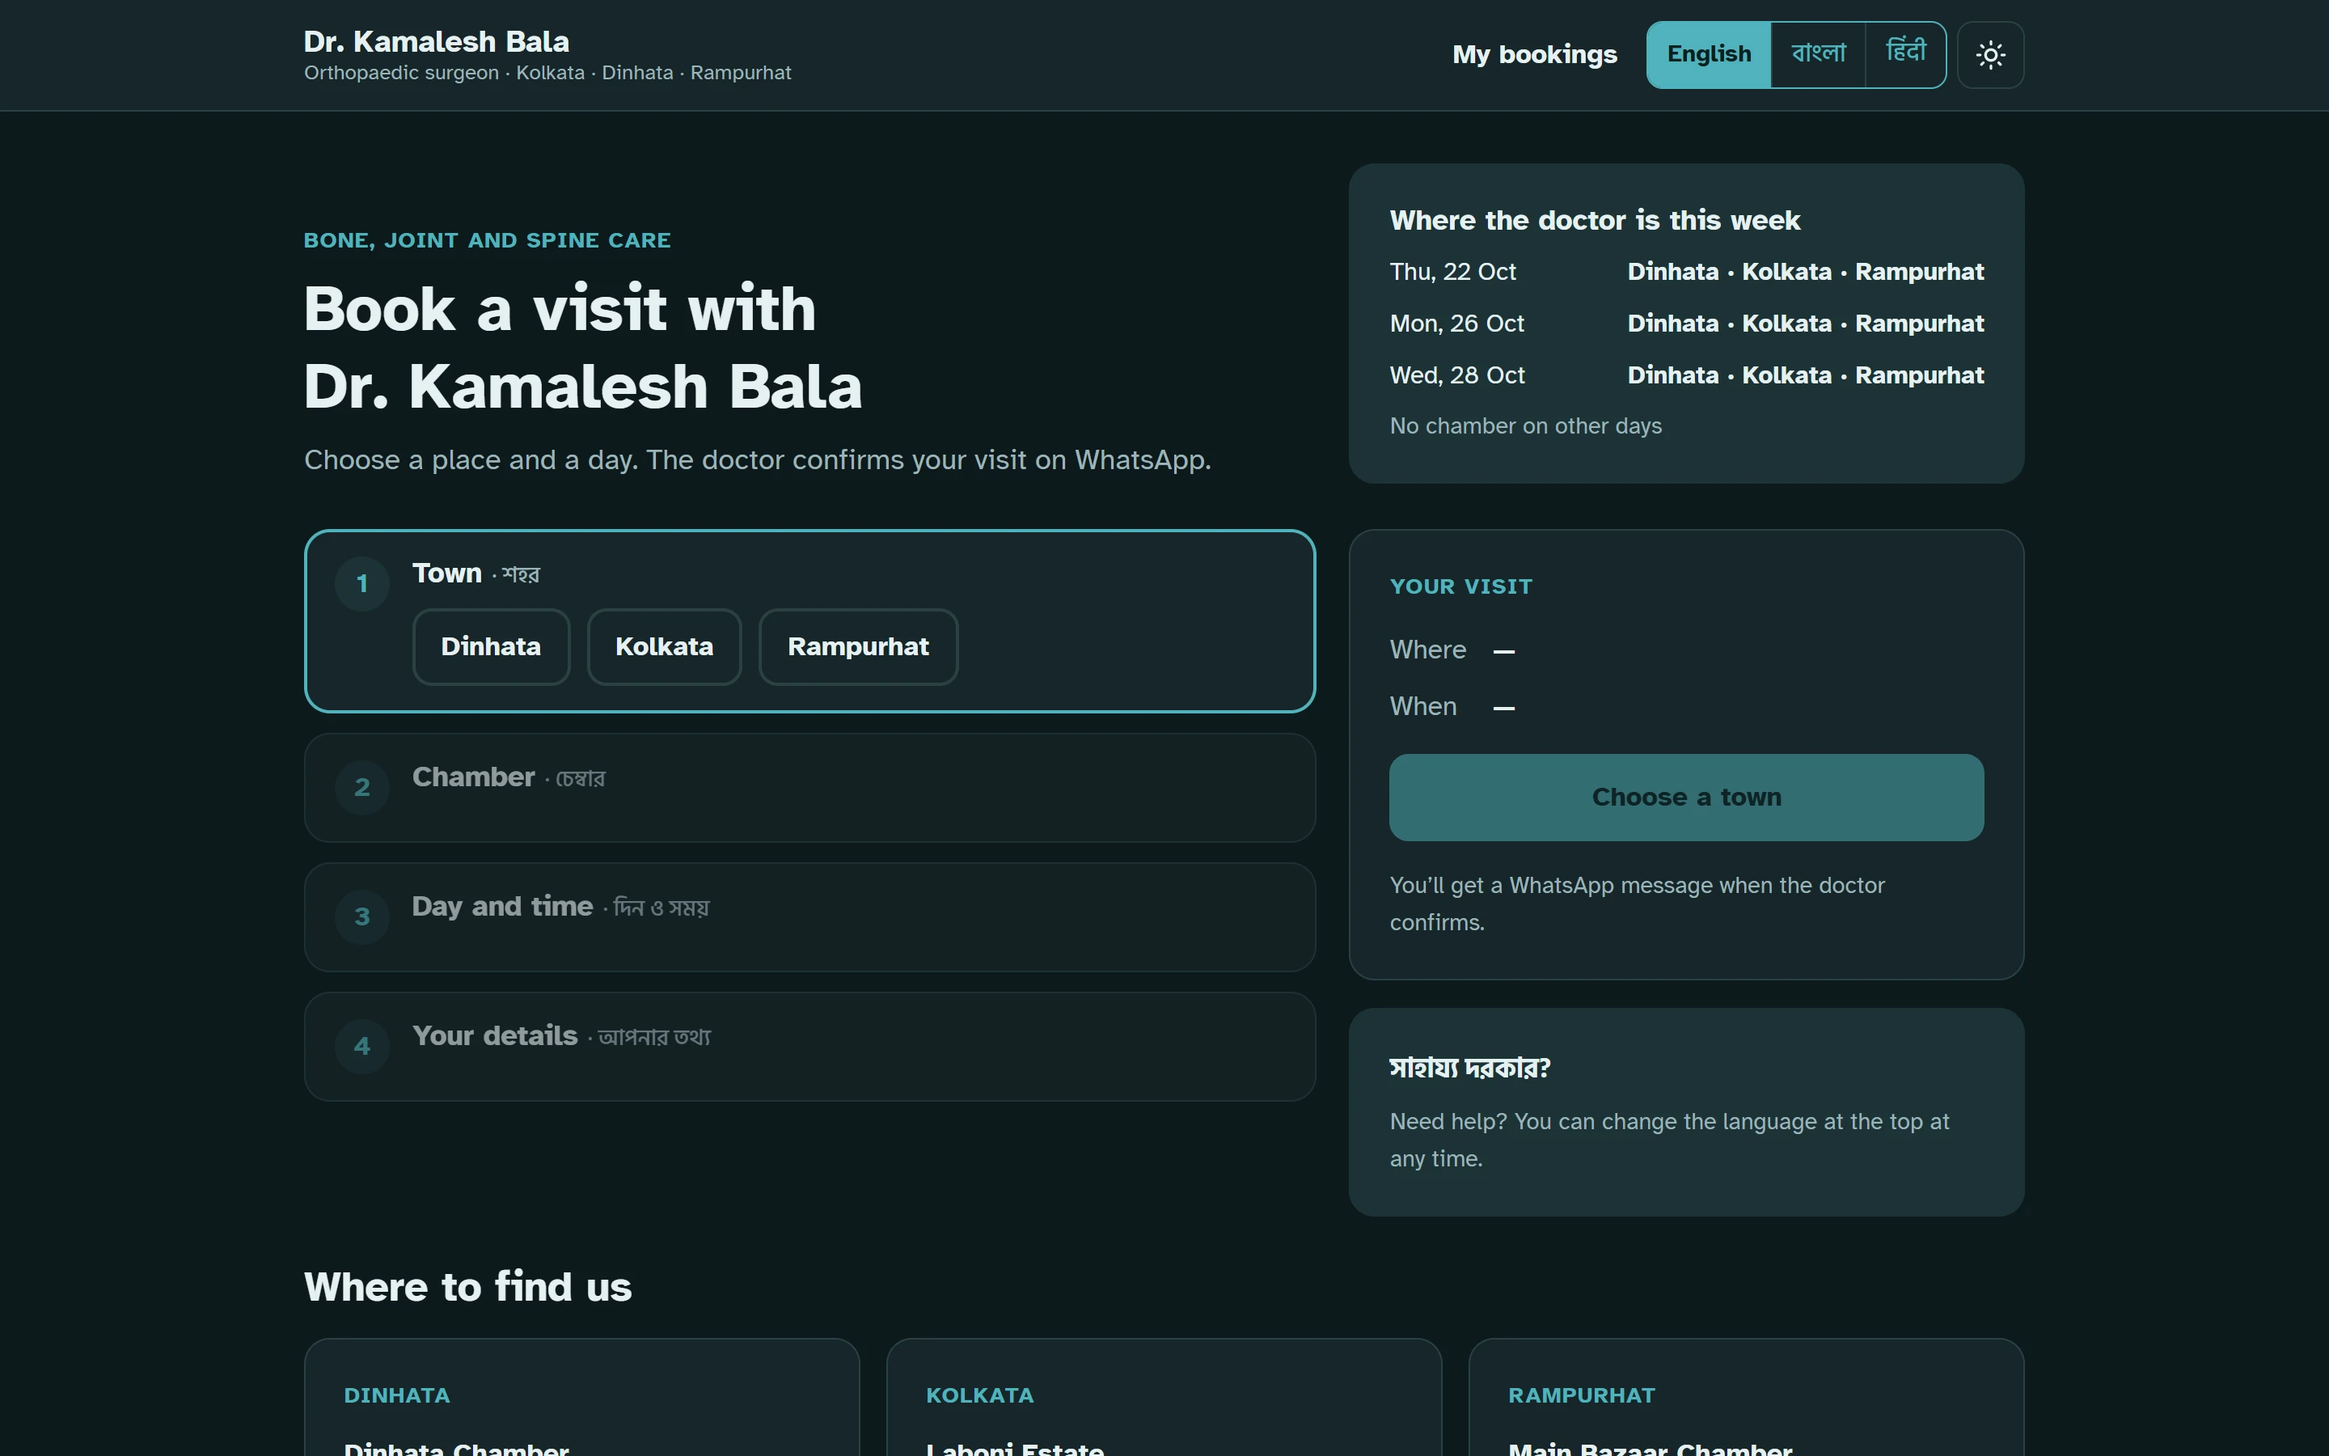
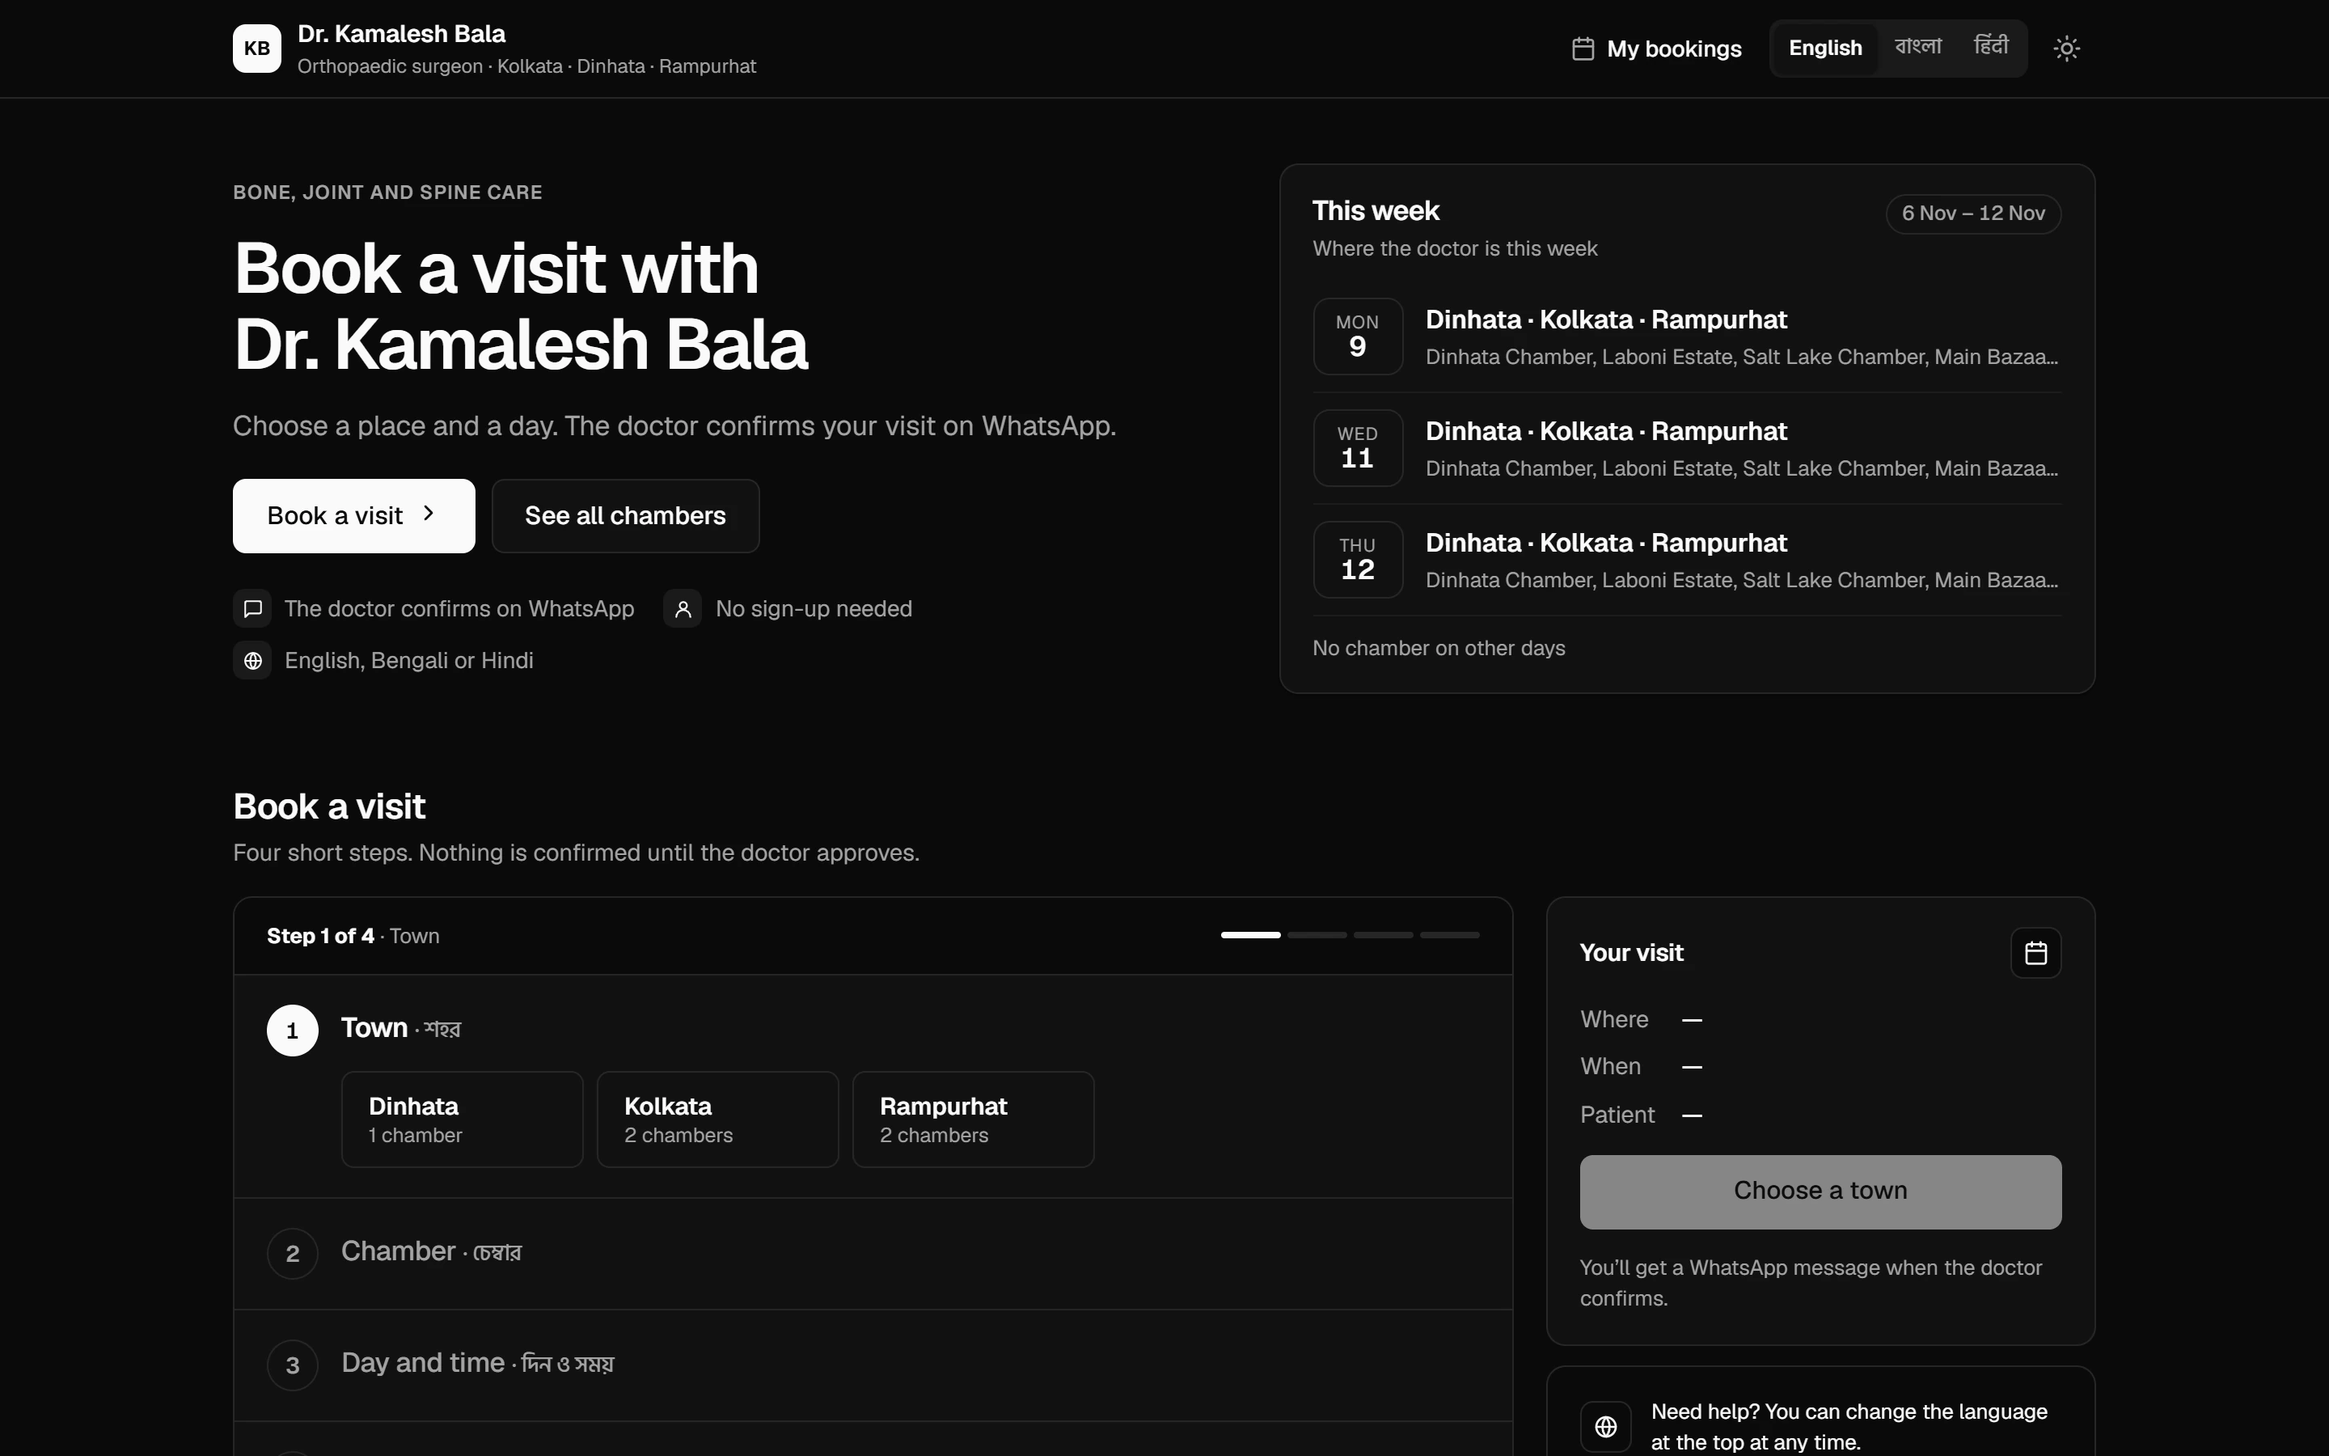
Retake the clinic's captures after its redesign
Every KB Patient Booking capture is the live site as of November 5 2026,
signed out: the slider and case-study heroes, the four Index frames, and
the case study's booking form and doctor's page, now 2x. The admin
panel's header is gone from the public site (its page is a sign-in card),
so the engineering plate is the patient sign-in strip the section's last
sentence describes. Captions describe only what each frame shows; the
body copy's stack is left for TODO.

diff --git a/lib/content.ts b/lib/content.ts
@@ -617,45 +617,45 @@ export const content: SiteContent = {
         src: "/media/kb-clinic-hero.webp",
         width: 2880,
         height: 1800,
-        alt: "The clinic's booking page in its dark theme: “Book a visit with Dr. Kamalesh Bala”, four steps — town, chamber, day and time, your details — with the first open on Dinhata, Kolkata and Rampurhat, the doctor's chamber days this week, and an empty visit summary.",
+        alt: "The clinic's booking page in its dark theme: “Book a visit with Dr. Kamalesh Bala”, buttons to book or to see all chambers, the doctor's three chamber days this week beside it, and the first of four booking steps open on Dinhata, Kolkata and Rampurhat, with an empty visit summary.",
       },
       heroMobile: {
         src: "/media/kb-clinic-mobile.webp",
         width: 1170,
         height: 2532,
-        alt: "The clinic's booking page on a phone: the doctor's name and speciality, English, Bengali and Hindi switches, this week's chamber days, and the first step, choosing a town.",
+        alt: "The clinic's booking page on a phone: the doctor's name, English, Bengali and Hindi switches, the headline, Book a visit and See all chambers, and this week's three chamber days.",
       },
-      // Taken from the live site on 2026-10-21, signed out. The booking was
-      // walked as far as a day and time and no further: the details step
-      // asks for a patient's own, and nothing was submitted.
+      // Taken from the live site on 2026-11-05, after its redesign, signed
+      // out. The booking was walked to the details step and no further:
+      // nothing was typed and nothing was sent.
       captures: [
         {
           src: "/media/kb-clinic-live-chamber.webp",
           width: 2880,
           height: 1800,
           label: "Chamber",
-          alt: "The second step, after choosing Kolkata: two chambers, Laboni Estate and Salt Lake, each with its address.",
+          alt: "The second step, after choosing Kolkata: two chambers, Laboni Estate and Salt Lake, each with its address and the days it is open this week, and the visit summary filling in beside them.",
         },
         {
           src: "/media/kb-clinic-live-day.webp",
           width: 2880,
           height: 1800,
           label: "Day and time",
-          alt: "The third step at the Salt Lake chamber: the days ahead, those without a chamber marked closed, and half-hourly times from 10:00 am to 5:30 pm, with the visit summary filled in beside it.",
+          alt: "The third step at the Salt Lake chamber: the days ahead, those without a chamber marked closed, Monday chosen, and half-hourly times from 10:00 am to 5:30 pm in morning, afternoon and evening rows, with the visit summary beside it.",
         },
         {
           src: "/media/kb-clinic-live-chambers.webp",
           width: 2880,
           height: 1800,
           label: "Five chambers",
-          alt: "Where to find us: five chambers across Dinhata, Kolkata and Rampurhat, each with its address, the days it is open this week and a button to book there, then the three steps of a booking and a sign-in for patients who have booked before.",
+          alt: "Where to find us: five chambers across Dinhata, Kolkata and Rampurhat, each with its address, the days it is open this week and a button to book there, then how booking works in three steps: choose a day, tell us who you are, wait for the doctor.",
         },
         {
           src: "/media/kb-clinic-live-bangla.webp",
           width: 2880,
           height: 1800,
           label: "In Bengali",
-          alt: "The booking page in Bengali: the headline, the steps, the visit summary and the help card translated, the town names left in English.",
+          alt: "The booking page in Bengali: the headline, the week, the steps, the visit summary and the help card translated, the town and chamber names left in English.",
         },
       ],
       caseStudy: {
@@ -677,26 +677,27 @@ export const content: SiteContent = {
             body: [
               "Three surfaces over one set of records. Patients book and review their history and prescriptions; the doctor's dashboard lists a chosen day's appointments with each patient's details; the admin panel holds every patient and booking, with a CSV export for backup.",
             ],
-            // Public, signed-out pages only. The form is cropped to its fields:
-            // the account panel beside it states the password format.
+            // Public, signed-out pages only. The form is cropped to its
+            // fields, all empty; the doctor's page to its description, past
+            // the sign-in form.
             media: {
               kind: "pair",
               title: "The patient's form, the doctor's day",
-              body: "A patient books in one form: a phone number, which becomes the account, an optional email, name, age and sex, and weight and height in whichever units they think in. The doctor signs in to a workspace built around the day: the pending queue, availability, and prescriptions to upload.",
+              body: "A patient books in one form: name, age and sex, a WhatsApp number, which becomes the account, an optional reason for the visit, and an optional email, height and weight. The doctor signs in to bookings, schedule and prescriptions in one place: every booking for the day, a visit to confirm or decline, prescriptions in English, Bengali or Hindi, and the days and hours patients can book.",
               images: [
                 {
                   src: "/media/kb-clinic-booking.webp",
-                  width: 832,
-                  height: 1015,
+                  width: 1456,
+                  height: 1088,
                   label: "Booking",
-                  alt: "The booking form's fields on a warm grey ground: phone number with a +91 prefix, optional email, full name, age and sex, and optional weight and height, each with a switch to pounds or to feet and inches.",
+                  alt: "The booking form's fields, all empty, on the dark theme: full name, age, sex as Male, Female or Other, a WhatsApp number with a +91 prefix, an optional reason for the visit, and optional email, height in centimetres and weight in kilograms.",
                 },
                 {
                   src: "/media/kb-clinic-doctor.webp",
-                  width: 966,
-                  height: 653,
+                  width: 1008,
+                  height: 920,
                   label: "The doctor's day",
-                  alt: "A Daily Schedule card: review today's queue, move appointments forward and jump into patient details, over three rows — Pending Appointments, Availability Manager, Upload Prescription.",
+                  alt: "The doctor's sign-in page: bookings, schedule and prescriptions in one place. See every booking for the day, confirm or decline visits, write prescriptions in English, Bengali or Hindi, and set the days and hours patients can book; then two cards, today's bookings and those waiting.",
                 },
               ],
             },
@@ -708,12 +709,12 @@ export const content: SiteContent = {
             ],
             media: {
               kind: "image",
-              src: "/media/kb-clinic-admin.webp",
-              width: 1714,
-              height: 555,
-              alt: "The admin panel's header: Admin Panel set in a serif, Central view for patient records and booking operations, three tags — patient records, booking operations, data exports — an overview card listing the same three, and a link bar back to booking and on to the doctor dashboard.",
+              src: "/media/kb-clinic-signin.webp",
+              width: 2308,
+              height: 420,
+              alt: "Already booked? A sign-in strip under the booking page: sign in to see your visits and prescriptions, a phone number with a +91 prefix and a password, both empty, the note “Use the phone number you booked with”, and a Sign in button.",
               caption:
-                "The third surface: patient records, booking operations and data exports behind one sign-in, a link away from the booking page and the doctor's dashboard.",
+                "A returning patient signs in with the phone number they booked with, to see their visits and prescriptions.",
             },
           },
           {

diff --git a/lib/blur.ts b/lib/blur.ts
@@ -22,7 +22,6 @@ export type BlurredMedia =
   | "/media/fens-oct-25.webp"
   | "/media/fens-oct-26-leaves.webp"
   | "/media/fens-oct-26-water.webp"
-  | "/media/kb-clinic-admin.webp"
   | "/media/kb-clinic-booking.webp"
   | "/media/kb-clinic-doctor.webp"
   | "/media/kb-clinic-hero.webp"
@@ -31,6 +30,7 @@ export type BlurredMedia =
   | "/media/kb-clinic-live-chambers.webp"
   | "/media/kb-clinic-live-day.webp"
   | "/media/kb-clinic-mobile.webp"
+  | "/media/kb-clinic-signin.webp"
   | "/media/lagna-atelier-android-birth-details.webp"
   | "/media/lagna-atelier-android-chart-hindi.webp"
   | "/media/lagna-atelier-android-home.webp"
@@ -91,24 +91,24 @@ export const BLUR_PLACEHOLDERS: Readonly<Record<BlurredMedia, string>> = {
[1 lines of base64/hex data omitted]
   "/media/fens-oct-26-water.webp":
[1 lines of base64/hex data omitted]
-  "/media/kb-clinic-admin.webp":
[1 lines of base64/hex data omitted]
   "/media/kb-clinic-booking.webp":
[2 lines of base64/hex data omitted]
   "/media/kb-clinic-doctor.webp":
[2 lines of base64/hex data omitted]
   "/media/kb-clinic-hero.webp":
[2 lines of base64/hex data omitted]
   "/media/kb-clinic-live-bangla.webp":
[2 lines of base64/hex data omitted]
   "/media/kb-clinic-live-chamber.webp":
[2 lines of base64/hex data omitted]
   "/media/kb-clinic-live-chambers.webp":
[2 lines of base64/hex data omitted]
   "/media/kb-clinic-live-day.webp":
[2 lines of base64/hex data omitted]
   "/media/kb-clinic-mobile.webp":
[2 lines of base64/hex data omitted]
+  "/media/kb-clinic-signin.webp":
[1 lines of base64/hex data omitted]
   "/media/lagna-atelier-android-birth-details.webp":
[1 lines of base64/hex data omitted]
   "/media/lagna-atelier-android-chart-hindi.webp":

diff --git a/TODO.md b/TODO.md
@@ -18,21 +18,22 @@ and listed here instead of being written plausibly.
   previous design is at commit `17e793e` (`components/ProjectMedia.tsx`).
 - **2x recaptures of the in-product screenshots** — the reading, chart
   settings, wheel and houses for Lagna Atelier; onboarding, intake, progress,
-  dashboard and trainer view for Robust Health; the clinic's booking form,
-  doctor and admin pages. They are 1x captures (a 2560-wide screen at 100%),
-  so on a 125% or Retina screen they render smaller to stay sharp (see
+  dashboard and trainer view for Robust Health. They are 1x captures (a
+  2560-wide screen at 100%), so on a 125% or Retina screen they render smaller to stay sharp (see
   *Adding media* in the README). Take each screen at the same framing with display scaling
   at 200%, crop to the same component, and replace the file under the same
   name.
 
 ## Snapshots that drift
 
-- **The clinic's case study describes the earlier build.** The project is on
-  hold (October 2026), so its copy is left as written. The live site has
-  moved on: it confirms visits on WhatsApp rather than by email, runs in
-  English, Bengali and Hindi, and lists five chambers in three towns, and
-  the case study's booking-form, doctor and admin captures show the earlier
-  design. Its heroes and Index frames are the live site as of October 21
-  2026. Update the copy if the project resumes.
+- **The clinic's case study copy describes the earlier build.** Its
+  captures were retaken on November 5 2026 after the redesign, and their
+  captions describe only what each frame shows. The body copy has not
+  moved with the project: its README now names Neon Postgres (via `pg`)
+  and Twilio WhatsApp, where the stack and the engineering section say
+  Supabase and a confirmation email, and its own notes say WhatsApp is not
+  delivering yet, so no claim that it does. The project is changing
+  quickly: check what is deployed before rewriting the stack, the
+  engineering section or the figures.
 - Commit counts (719 on Lagna Atelier) and test counts are as of September 23
   2026. Refresh them in `lib/content.ts` when they move meaningfully.

diff --git a/CLAUDE.md b/CLAUDE.md
@@ -534,11 +534,12 @@ narrower.
   pages, walked no further than a form's first choices — nothing typed,
   nothing submitted — so Lagna Atelier's are its landing screen's themes
   and languages, and Robust Health's walk its landing page, How It Works,
-  onboarding, a quick-start plan and the Spanish landing page. Lagna
-  Atelier's and the clinic's were taken October 21 2026, Robust Health's on
-  November 3 2026 after its redesign; each project's slider hero is from
-  the same round as its frames. Retake both together, and keep the note
-  under the heading true.
+  onboarding, a quick-start plan and the Spanish landing page. The
+  clinic's walk its booking to the details step, empty, and stop. Lagna
+  Atelier's were taken October 21 2026, Robust Health's on November 3 2026
+  and the clinic's on November 5 2026, each after its redesign; each
+  project's slider hero is from the same round as its frames. Retake both
+  together, and keep the note under the heading true.
 - **Capture in a guest browser.** A headless Edge profile on his machine
   inherits his Windows sign-in and filled the Robust Health sign-in forms
   with his saved email and password, unasked. `--guest` stops it; check
